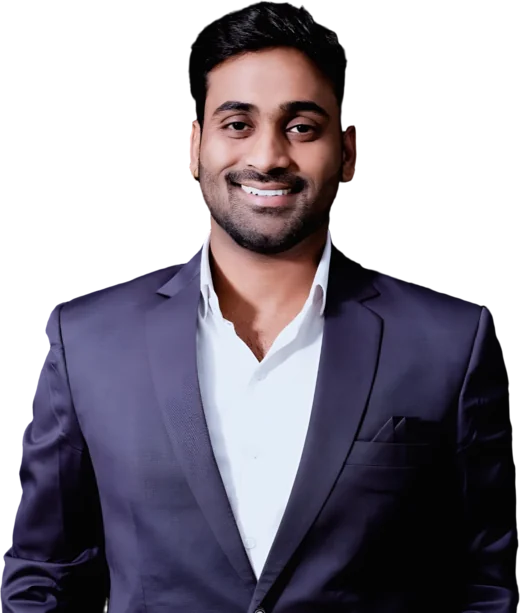
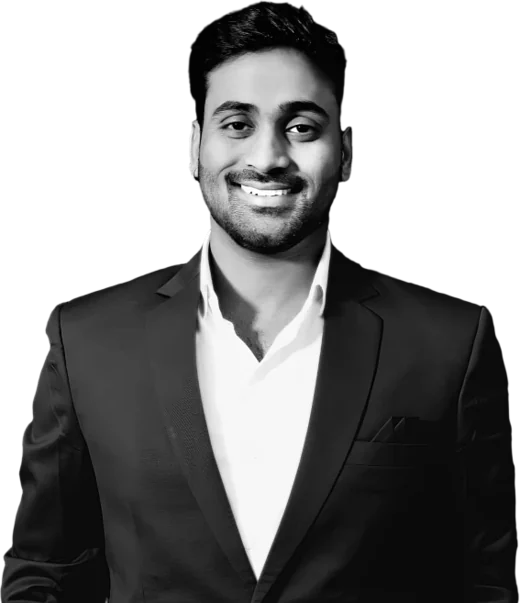
fix(cg): swap in the new greyscale quote photo
Same framing as the last one, from a source that is already desaturated.
.cg-quote-photo still applies grayscale(1), which is idempotent, so it
renders identically — the filter stays because it is what keeps the
portrait in step with the monochrome logo wall above it, and nothing
should depend on the source file's colour.

Trimmed its 17px transparent border and resized 600x674 -> 520x603, 3x
the 172px desktop render, for 19 KB. The height attribute moves 613 ->
603 with the slightly different crop; left stale it would have reserved
the wrong box and squashed the portrait until it loaded.

diff --git a/src/features/public/PublicClientWelcome.jsx b/src/features/public/PublicClientWelcome.jsx
@@ -54,7 +54,7 @@ const TESTIMONIAL = {
   // at a stable path with a long cache lifetime, so replacing the file in
   // place would leave returning visitors on the previous photo. Update this
   // whenever the image changes — `sha256sum public/clientele/anil.webp`.
-  photo: '/clientele/anil.webp?v=41ecd14a',
+  photo: '/clientele/anil.webp?v=4c5b8a80',
 }
 
 /* ─── Turnstile ────────────────────────────────────────────────────── */
@@ -868,7 +868,7 @@ export default function PublicClientWelcome() {
               src={TESTIMONIAL.photo}
               alt={TESTIMONIAL.name}
               width="520"
-              height="613"
+              height="603"
             />
             <div className="cg-quote-body">
               <span className="cg-quote-mark" aria-hidden="true">&ldquo;</span>
